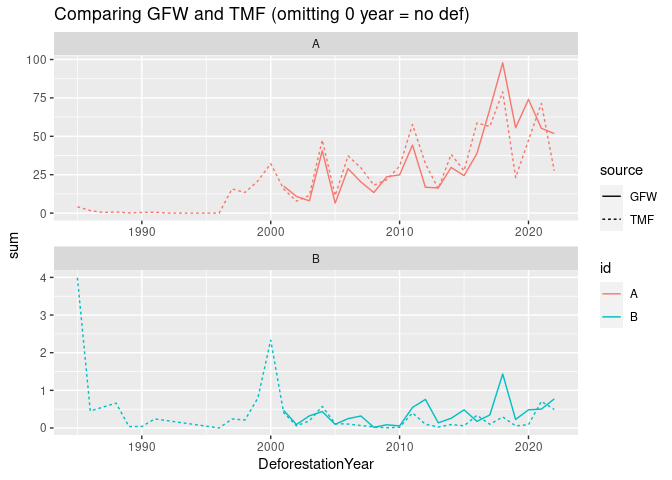
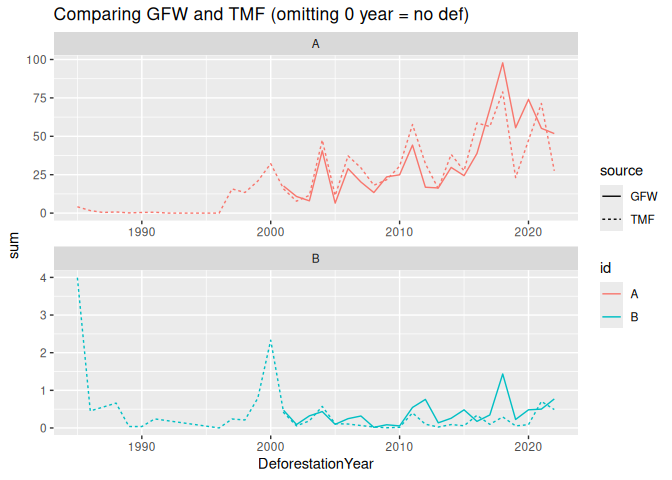
Better desc main functions

diff --git a/spatial/rgee/rgee_hansen_forest/README.md b/spatial/rgee/rgee_hansen_forest/README.md
@@ -11,14 +11,26 @@ output:
 
 # Code to get hansen data with rgee
 
-This code simplifies the procedure to get Hansen forest loss data, including an initial step to mask pixels using the `treecover2000` raster layer. 
+This code simplifies the procedure to get Hansen forest loss data in R using `rgee`, including an initial step to mask pixels using the `treecover2000` raster layer. 
+
+Main functions:
+
+- `eegfw_get_mask(treecover2000_param =90, han_version="UMD/hansen/global_forest_change_2022_v1_10")`: create a mask based on the `treecover2000` band.
+
+- `eegfw_get_dfrt(FC, mask= NULL, scale =30, ensure_empty=FALSE, han_version = "UMD/hansen/global_forest_change_2022_v1_10")`: get the Hansen `lossyear` variable for a given `FC`.
+
+- `eeTMF_get_dfrt(FC, mask= NULL, scale =30, ensure_empty=FALSE, version = 'projects/JRC/TMF/v1_2022/DeforestationYear')`
+get the TMF data for a given `FC`.
+
+- `eegfw_quick_process(ee)`: process the resulting data in R
+
 
 ## Demo
 
 Source script:
 
 
-```r
+``` r
 devtools::source_url("https://raw.githubusercontent.com/MatthieuStigler/Misc/master/spatial/rgee/rgee_hansen_forest/eegfw_get_hansen.R")
 ```
 
@@ -29,41 +41,57 @@ devtools::source_url("https://raw.githubusercontent.com/MatthieuStigler/Misc/mas
 Load libraries, authenticate:
 
 
-```r
+``` r
 library(dplyr, warn.conflicts = FALSE)
 library(sf)
 ```
 
 ```
-## Linking to GEOS 3.10.2, GDAL 3.4.3, PROJ 8.2.0; sf_use_s2() is TRUE
+## Linking to GEOS 3.12.1, GDAL 3.8.4, PROJ 9.4.0; sf_use_s2() is TRUE
 ```
 
-```r
+``` r
 library(rgee)
 
 ee_Initialize(user = "XXX", gcs = FALSE)
 ```
 
 ```
-## ── rgee 1.1.7 ─────────────────────────────────────── earthengine-api 0.1.358 ── 
-##  ✔ user: XXX
+## Warning in ee_check_init(): Update your earthengine-api installations to
+## v0.1.317 or greater. Earlier versions are not compatible with recent changes to
+## the Earth Engine backend.
+```
+
+```
+## ── rgee 1.1.7 ───────────────────────────────────────── earthengine-api 1.5.2 ── 
+##  ✔ user: XXX 
 ##  ✔ Initializing Google Earth Engine:
+```
+
+```
+## Warning in ee_check_init(): Update your earthengine-api installations to
+## v0.1.317 or greater. Earlier versions are not compatible with recent changes to
+## the Earth Engine backend.
+```
+
+```
+## 
  ✔ Initializing Google Earth Engine:  DONE!
 ## 
- ✔ Earth Engine account: XXX
+ ✔ Earth Engine account: projects/458248970343/assets/COL_Sinchi 
 ## 
- ✔ Python Path: XXX
+ ✔ Python Path: /home/matifou/programs/anaconda3/envs/ee/bin/python 
 ## ────────────────────────────────────────────────────────────────────────────────
 ```
 
-```r
+``` r
 ## set to `gcs = TRUE` if you want to export after with ee_table_to_gcs()
 ```
 
 Create pseudo input polygons:
 
 
-```r
+``` r
 geom_1 <- ee$Geometry$Polygon(list(list(c(-73.83, 2.43) ,c(-73.83, 2.02),
                                         c(-73.14, 2.02),c(-73.14, 2.43))))
 geom_2 <- ee$Geometry$Polygon(list(list(c(-73.72, 1.86) ,c(-73.72, 1.54),
@@ -95,7 +123,7 @@ ee_as_sf(FC)
 ### Run without mask:
 
 
-```r
+``` r
 out_EE <- eegfw_get_dfrt(FC = FC)
 GFW_masked_unmasked <- eegfw_quick_process(ee=out_EE)
 GFW_masked_unmasked
@@ -107,7 +135,7 @@ GFW_masked_unmasked
 ##      <dbl> <chr>     <dbl>    <int> <dbl>
 ##  1   3480. A          935.        1 22.4 
 ##  2   3480. A          935.        2 13.5 
-##  3   3480. A          935.        3  9.84
+##  3   3480. A          935.        3  9.83
 ##  4   3480. A          935.        4 52.1 
 ##  5   3480. A          935.        5  8.40
 ##  6   3480. A          935.        6 37.7 
@@ -121,7 +149,7 @@ GFW_masked_unmasked
 ## Run with mask
 
 
-```r
+``` r
 mask_90 <- eegfw_get_mask()
 out_mask_EE <- eegfw_get_dfrt(FC = FC, mask =mask_90)
 GFW_masked <- eegfw_quick_process(ee=out_mask_EE)
@@ -132,16 +160,16 @@ GFW_masked
 ## # A tibble: 46 × 6
 ##    area_ee id    losstotal mask_hansen lossyear     sum
 ##      <dbl> <chr>     <dbl>       <dbl>    <int>   <dbl>
-##  1   2994. A          767.       2525.        0 1758.  
-##  2   2994. A          767.       2525.        1   17.6 
-##  3   2994. A          767.       2525.        2   10.8 
-##  4   2994. A          767.       2525.        3    7.98
-##  5   2994. A          767.       2525.        4   40.6 
-##  6   2994. A          767.       2525.        5    6.49
-##  7   2994. A          767.       2525.        6   28.9 
-##  8   2994. A          767.       2525.        7   20.2 
-##  9   2994. A          767.       2525.        8   13.4 
-## 10   2994. A          767.       2525.        9   23.6 
+##  1   2994. A          767.       2526.        0 1758.  
+##  2   2994. A          767.       2526.        1   17.6 
+##  3   2994. A          767.       2526.        2   10.8 
+##  4   2994. A          767.       2526.        3    7.98
+##  5   2994. A          767.       2526.        4   40.6 
+##  6   2994. A          767.       2526.        5    6.49
+##  7   2994. A          767.       2526.        6   28.9 
+##  8   2994. A          767.       2526.        7   20.2 
+##  9   2994. A          767.       2526.        8   13.4 
+## 10   2994. A          767.       2526.        9   23.6 
 ## # ℹ 36 more rows
 ```
 
@@ -151,7 +179,7 @@ GFW_masked
 To use the TMF product, use:
 
 
-```r
+``` r
 TMF_v2022 <- eegfw_quick_process(ee=eeTMF_get_dfrt(FC = FC))
 TMF_v2021 <- eegfw_quick_process(ee=eeTMF_get_dfrt(FC = FC, version='projects/JRC/TMF/v1_2021/DeforestationYear'))
 ```
@@ -159,7 +187,7 @@ TMF_v2021 <- eegfw_quick_process(ee=eeTMF_get_dfrt(FC = FC, version='projects/JR
 ## combine results and plot
 
 
-```r
+``` r
 GFW_TMF <- rbind(TMF_v2022 %>% 
                    mutate(source= "TMF"),
                  GFW_masked %>% 
@@ -185,7 +213,7 @@ Eventually, export task using `rgee::ee_table_to_drive()` for google drive or `r
 Example with `ee_table_to_gcs()`:
 
 
-```r
+``` r
 ## Try export
 ee_table_to_gcs(
   collection=coll_out,
